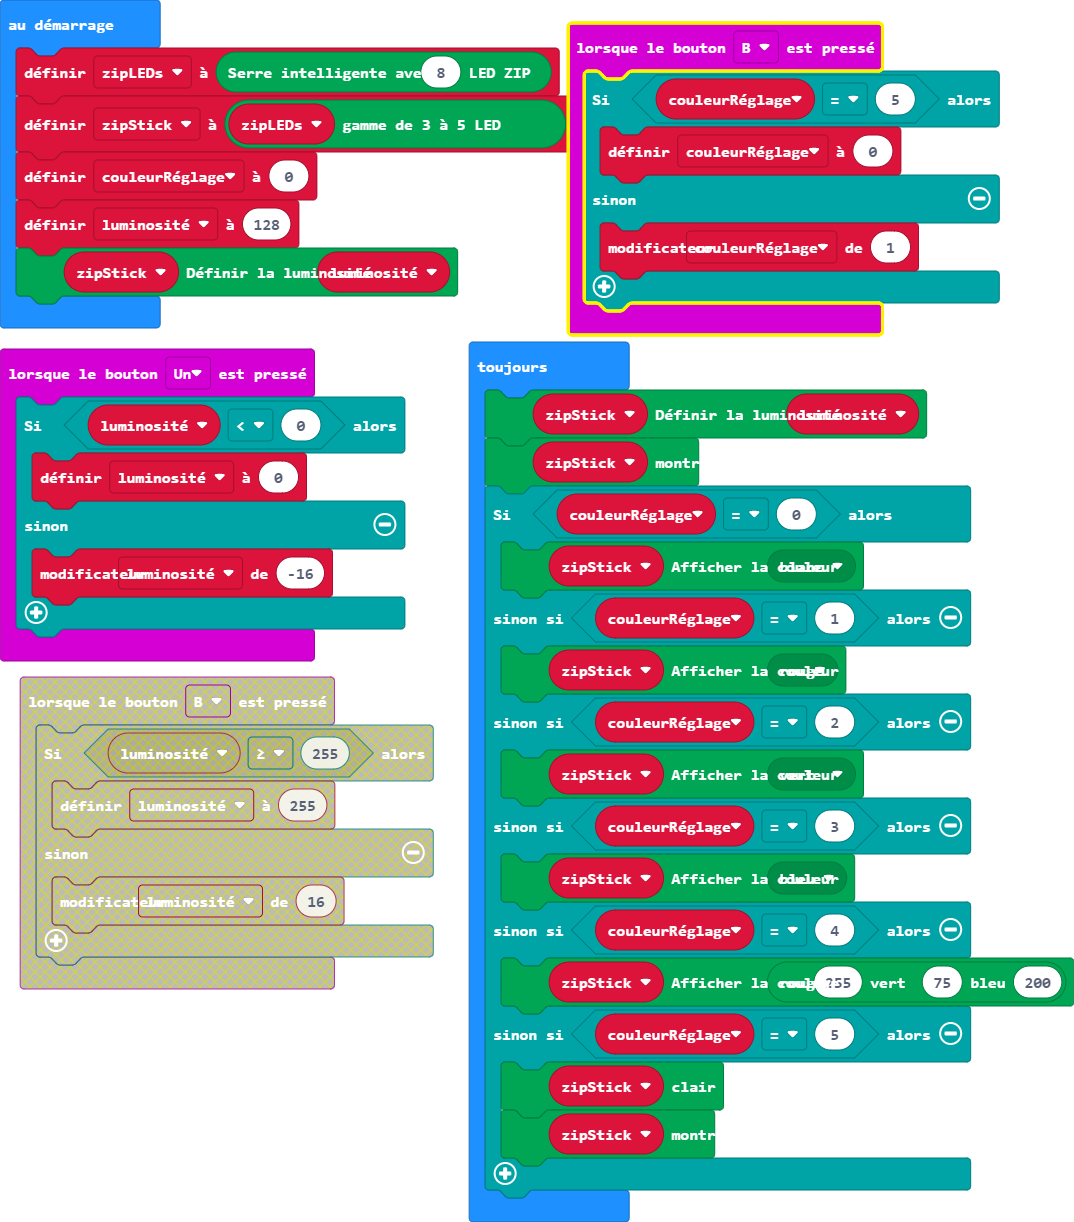
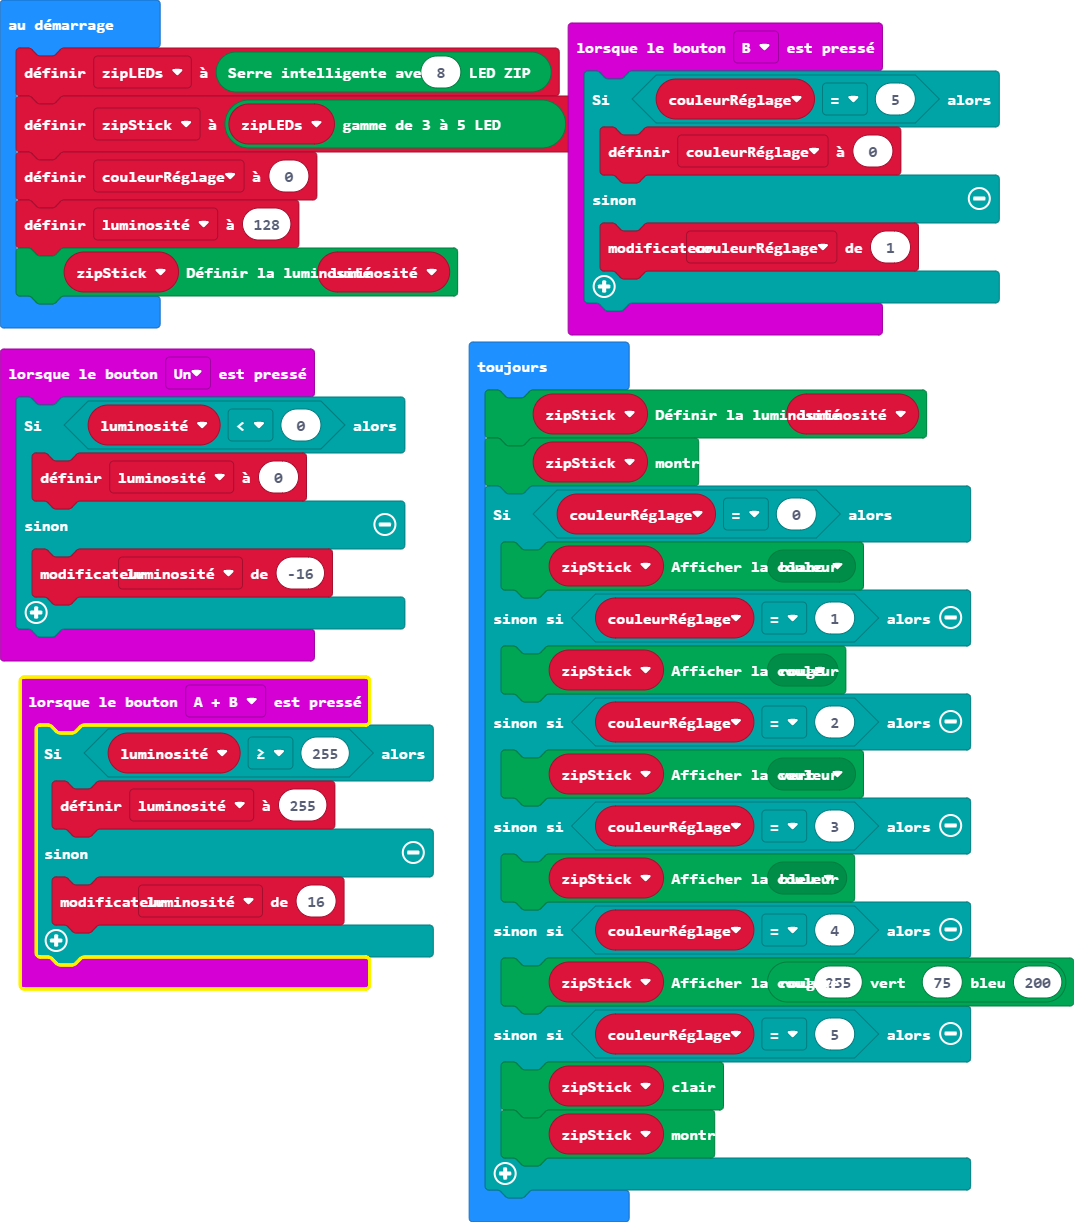
Mise à jour main.blocks, main.ts

Changed region(s): [[0.0, 0.5286, 0.4302, 0.8085], [0.5223, 0.0, 0.8296, 0.2799]]

diff --git a/main.ts b/main.ts
@@ -5,6 +5,13 @@ input.onButtonPressed(Button.A, function () {
         brightness += -16
     }
 })
+input.onButtonPressed(Button.AB, function () {
+    if (brightness >= 255) {
+        brightness = 255
+    } else {
+        brightness += 16
+    }
+})
 input.onButtonPressed(Button.B, function () {
     if (colourSetting == 5) {
         colourSetting = 0
